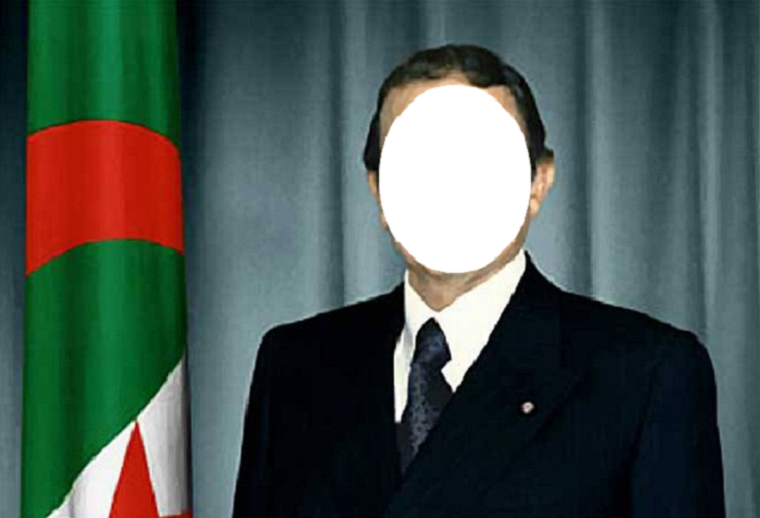
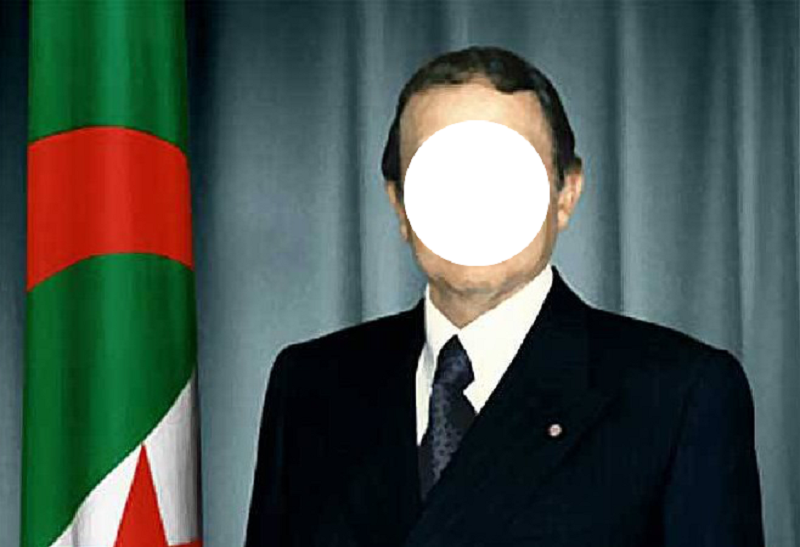
better rounded image

diff --git a/js/script.js b/js/script.js
@@ -22,7 +22,7 @@ function readFile(input) {
 $uploadCrop = $('#upload-demo').croppie({
   viewport: {
     width: 150,
-    height: 200,
+    height: 150,
     type: 'circle'
   },
   enforceBoundary: false,
@@ -51,7 +51,7 @@ $('#cropImageBtn').on('click', function(ev) {
     format: 'jpeg',
     size: {
       width: 150,
-      height: 200
+      height: 150
     }
   }).then(function(resp) {
     $('#item-img-output').attr('src', resp);

diff --git a/css/master.css b/css/master.css
@@ -16,8 +16,8 @@ body{
 */
 figure{
 	position: relative;
-	left: 225px;
-	top: 80px;
+	left: 250px;
+	top: 110px;
 }
 
 label.cabinet{
@@ -36,8 +36,8 @@ label.cabinet input.file{
 }
 
 #upload-demo{
-	width: 250px;
-	height: 250px;
+	width: 150px;
+	height: 150px;
   padding-bottom:25px;
 }
 
